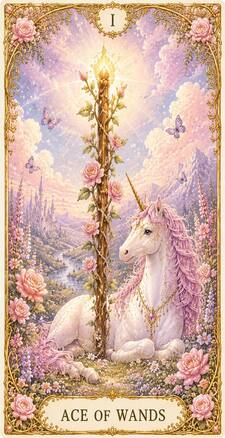
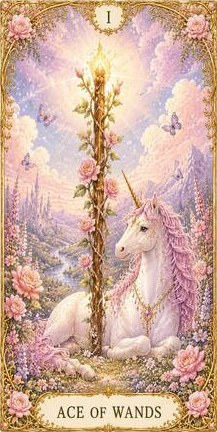
Crop card margins and use 3 by 5 reveal ratio

diff --git a/index.html b/index.html
@@ -8,7 +8,7 @@
   <link rel="preconnect" href="https://fonts.googleapis.com">
   <link rel="preconnect" href="https://fonts.gstatic.com" crossorigin>
   <link href="https://fonts.googleapis.com/css2?family=Cormorant+Garamond:wght@500;700&family=Nunito:wght@400;600;700&display=swap" rel="stylesheet">
-  <link rel="stylesheet" href="style.css?v=9" />
+  <link rel="stylesheet" href="style.css?v=10" />
   <script src="https://cdn.jsdelivr.net/npm/html2canvas@1.4.1/dist/html2canvas.min.js" defer></script>
   <script type="module" src="script.js?v=63"></script>
 </head>

diff --git a/style.css b/style.css
@@ -212,7 +212,7 @@ button:focus-visible { outline: 3px solid rgba(102,82,122,.35); outline-offset: 
 }
 .oracle-card.has-detailed-art {
   width: min(78vw, 300px);
-  aspect-ratio: 4 / 5;
+  aspect-ratio: 3 / 5;
   height: auto;
   padding: 3px;
   overflow: visible;
